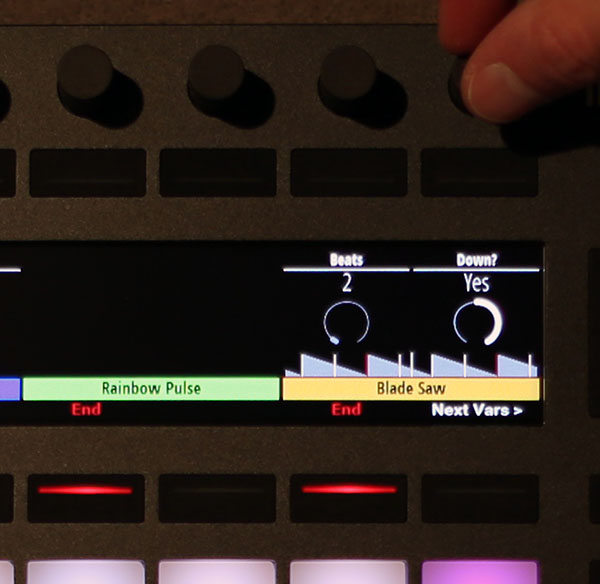
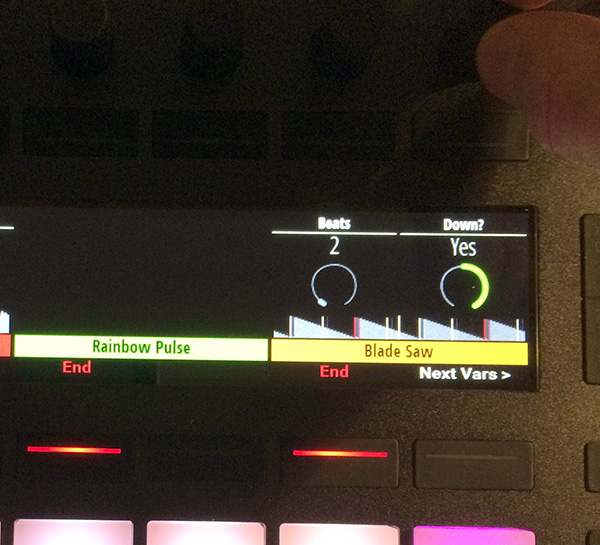
Updating documentation.

diff --git a/CHANGELOG.md b/CHANGELOG.md
@@ -14,9 +14,18 @@ This change log follows the conventions of
 
 ### Changed
 
+- The CoreMIDI4J library is now embedded within Afterglow, so it does
+  not need to be separately installed by the user for MIDI to work
+  properly on Mac OS X. If you have a separate installation of
+  CoreMIDI4J in `/Library/Java/Extensions`, you should remove it to
+  avoid version conflicts with newer versions shipped with Afterglow.
 - The hue and saturation gauges on the Push 2 are now drawn using a
   masking image so they can be anti-aliased to the same outline shape
   as the other gauges, and look much cleaner.
+- Boolean gauges on the Push 2 are drawn in red or green for No and
+  Yes values, and the transition between values is animated, to make
+  it easier to see what is happening, and to relate it to the encoder
+  rotation.
 
 
 ## [0.2.1] - 2016-04-03
